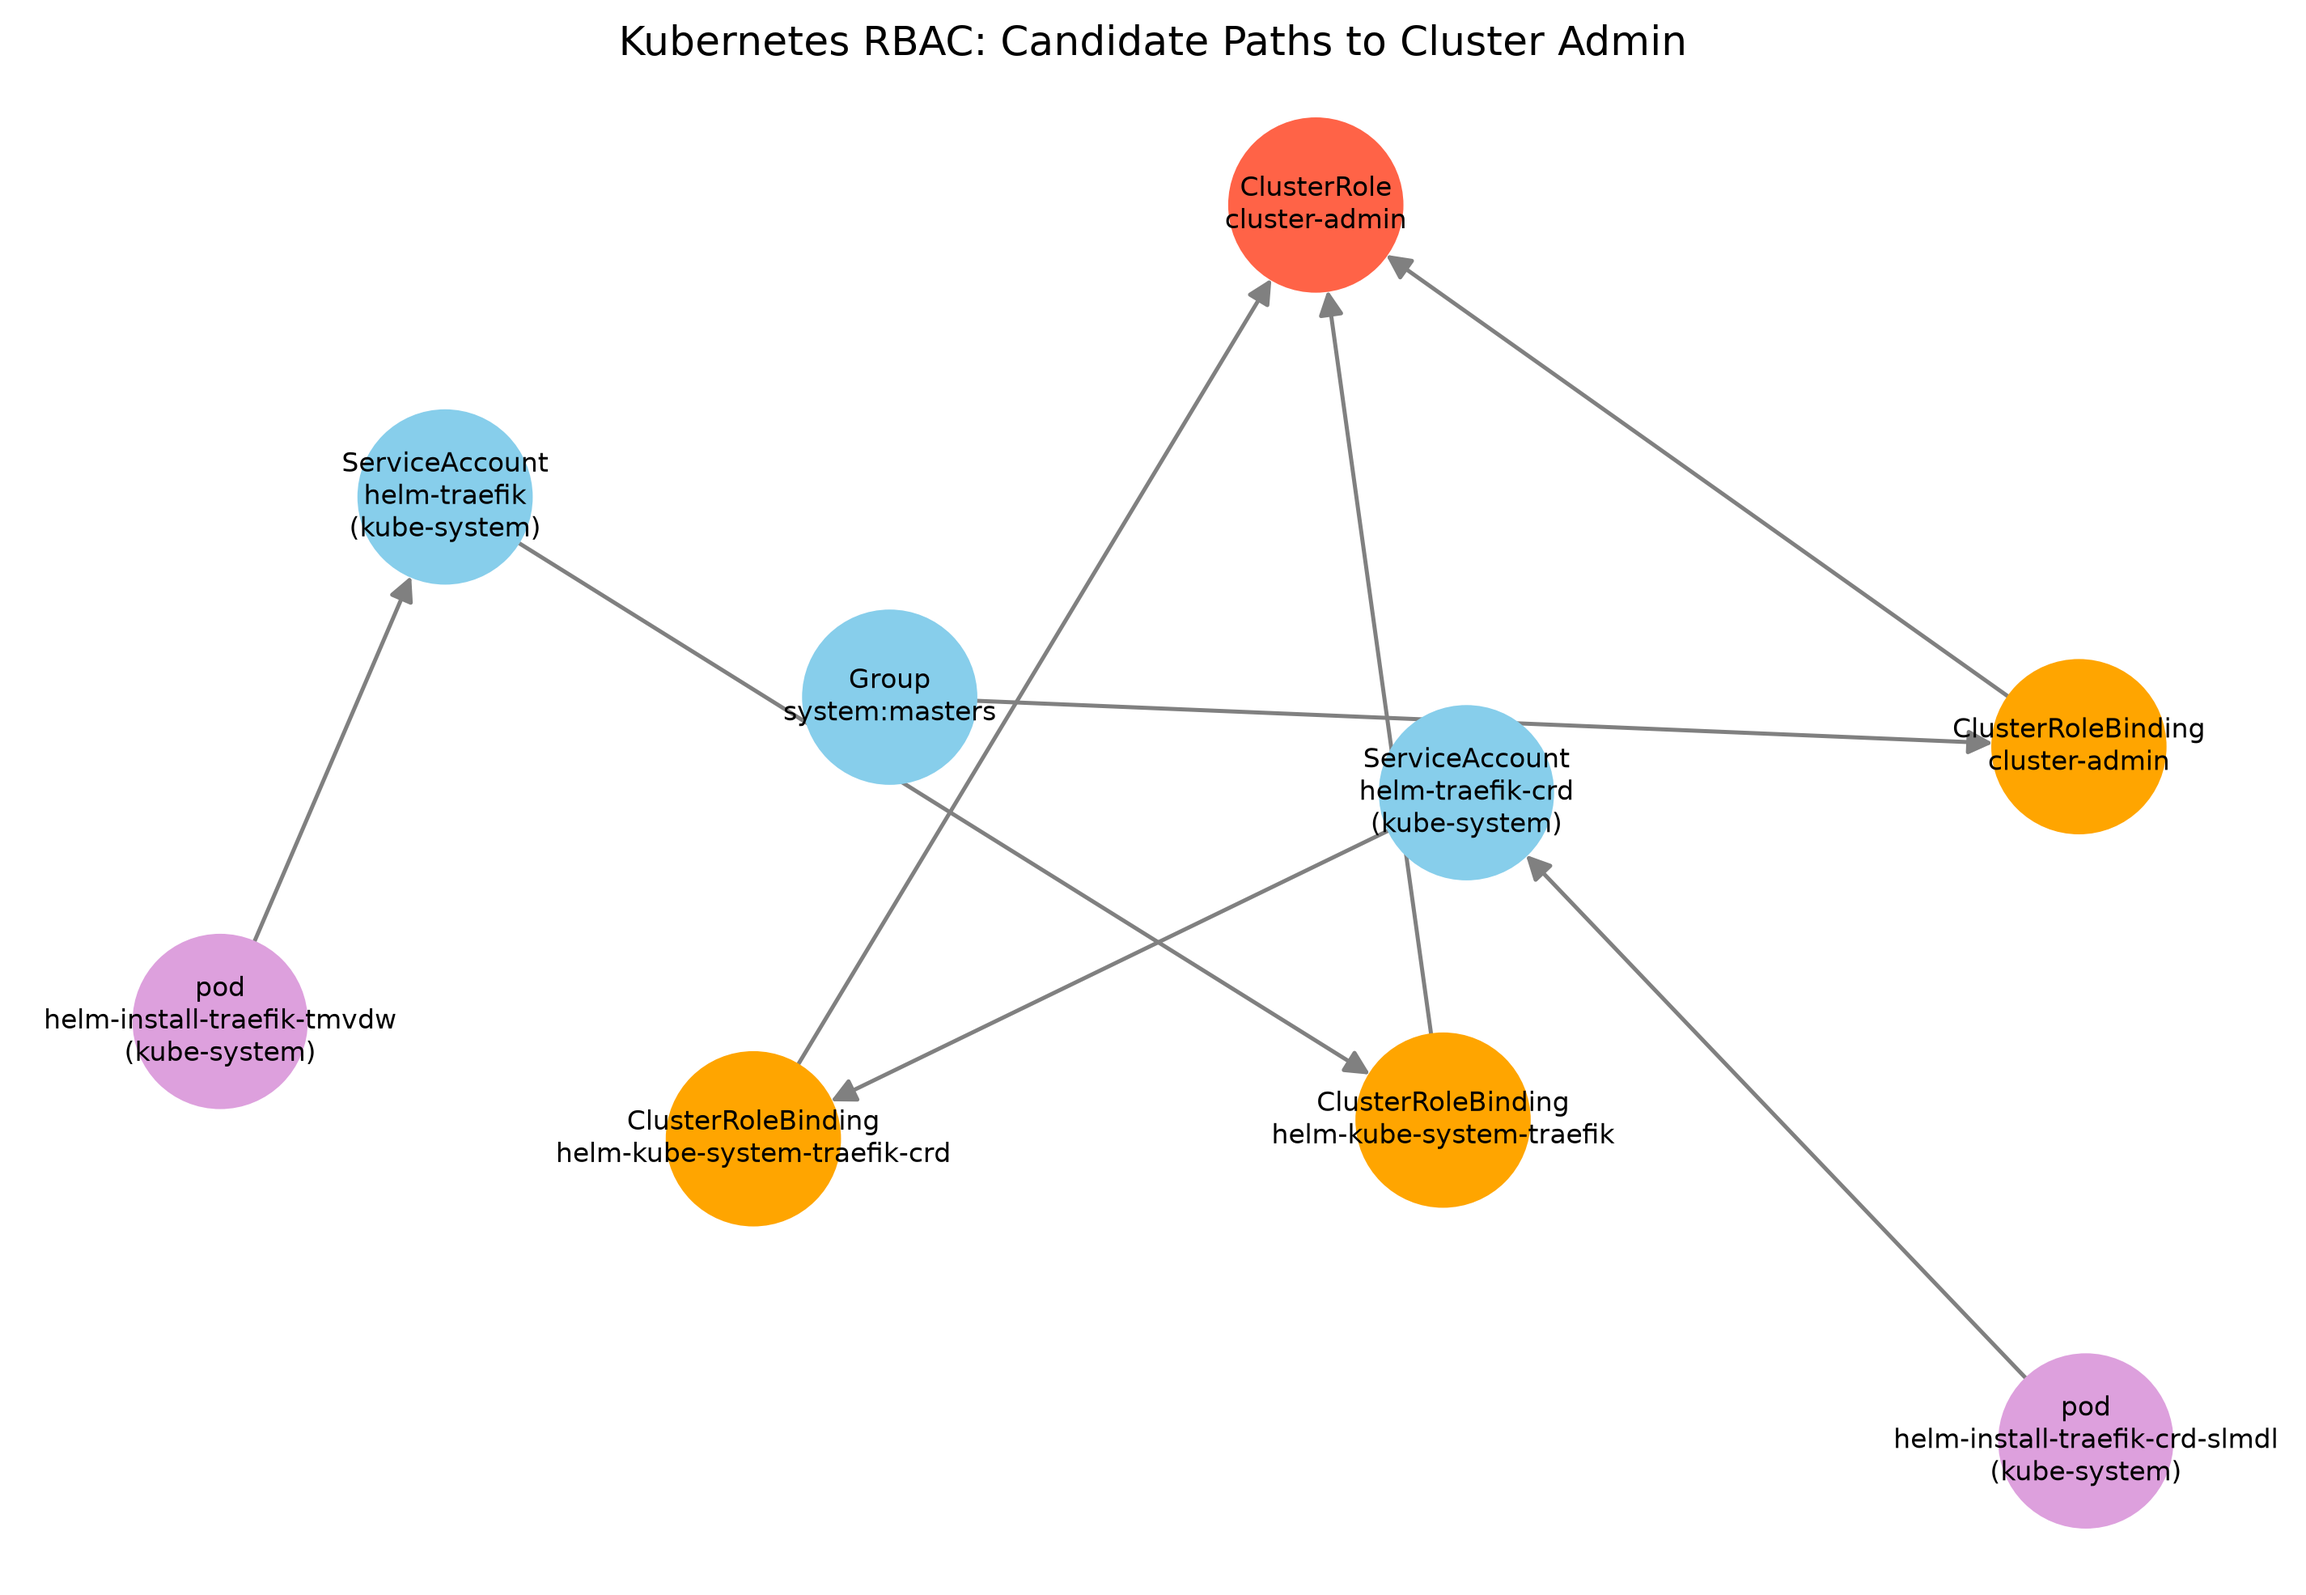
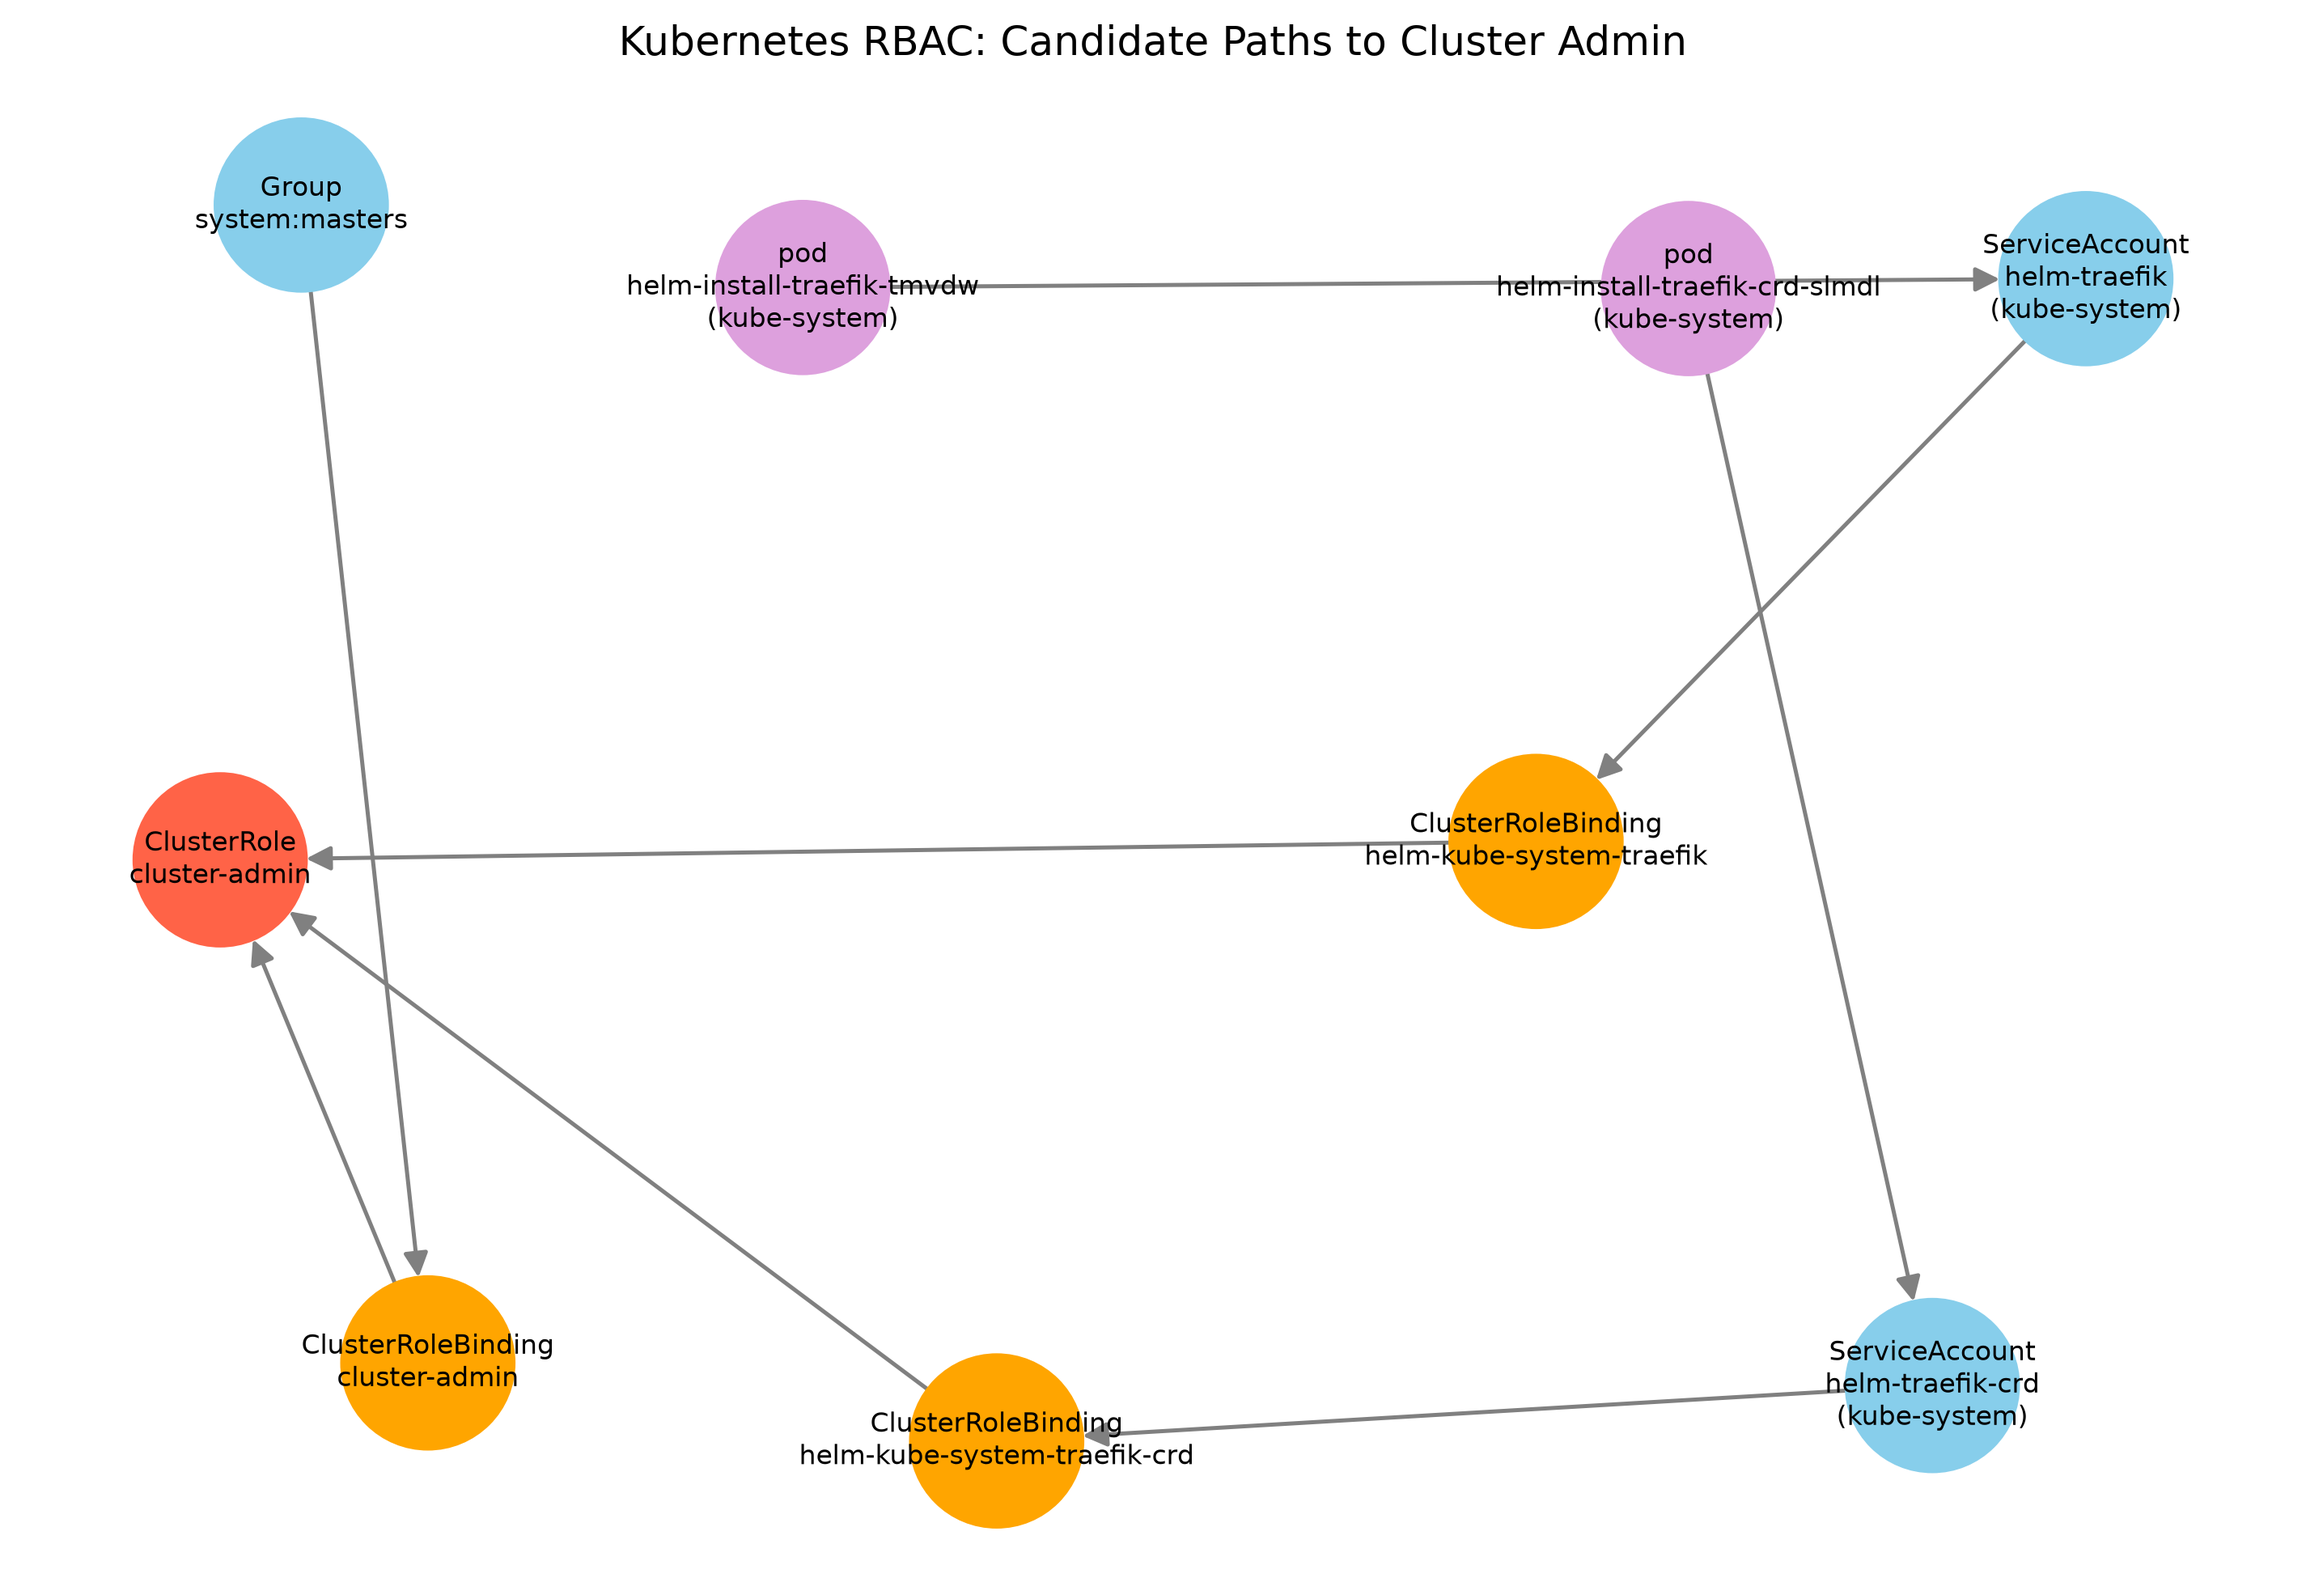
Initial working version for Review 2

diff --git a/main.py b/main.py
@@ -1,10 +1,16 @@
 
+
+
 import csv
 import os
+import time
 
 from src.graph_builder import build_graph
 from src.visualize import draw_graph
-from src.path_analyzer import find_escalation_paths
+from src.path_analyzer import (
+    find_escalation_paths,
+    find_direct_admin_assignments
+)
 
 
 # Step 1: Build the graph
@@ -61,3 +67,27 @@ with open("results/paths.csv", "w", newline="") as file:
 
 print("\nPaths saved to results/paths.csv")
 
+
+# Step 7: Compare baseline and graph-based method
+baseline_start = time.perf_counter()
+baseline_paths = find_direct_admin_assignments(graph, target)
+baseline_time = time.perf_counter() - baseline_start
+
+graph_start = time.perf_counter()
+graph_paths = find_escalation_paths(graph, target, max_depth=6)
+graph_time = time.perf_counter() - graph_start
+
+print("\nComparative Evaluation")
+print("Baseline paths:", len(baseline_paths))
+print("Graph-based paths:", len(graph_paths))
+print(f"Baseline time: {baseline_time:.6f} seconds")
+print(f"Graph-based time: {graph_time:.6f} seconds")
+
+os.makedirs("results", exist_ok=True)
+with open("results/baseline_comparison.csv", "w", newline="") as file:
+    writer = csv.writer(file)
+    writer.writerow(["Method", "Candidate Paths", "Execution Time (seconds)"])
+    writer.writerow(["Baseline", len(baseline_paths), baseline_time])
+    writer.writerow(["Graph-based", len(graph_paths), graph_time])
+
+print("Comparison saved to results/baseline_comparison.csv")

diff --git a/src/path_analyzer.py b/src/path_analyzer.py
@@ -20,3 +20,36 @@ def find_escalation_paths(graph, target, max_depth=6):
 
     return paths
 
+def find_direct_admin_assignments(graph, target):
+    """
+    Baseline: Find subjects directly connected to the target
+    role through a binding.
+    """
+    paths = []
+
+    for subject, data in graph.nodes(data=True):
+        if data.get("type") != "subject":
+            continue
+
+        # Subject -> Binding
+        for binding in graph.successors(subject):
+            binding_data = graph.nodes[binding]
+
+            if binding_data.get("type") != "binding":
+                continue
+
+            edge_data = graph.get_edge_data(subject, binding, {})
+            if edge_data.get("relation") != "subject_to_binding":
+                continue
+
+            # Binding -> Target role
+            if not graph.has_edge(binding, target):
+                continue
+
+            edge_data = graph.get_edge_data(binding, target, {})
+            if edge_data.get("relation") != "binding_to_role":
+                continue
+
+            paths.append([subject, binding, target])
+
+    return paths
